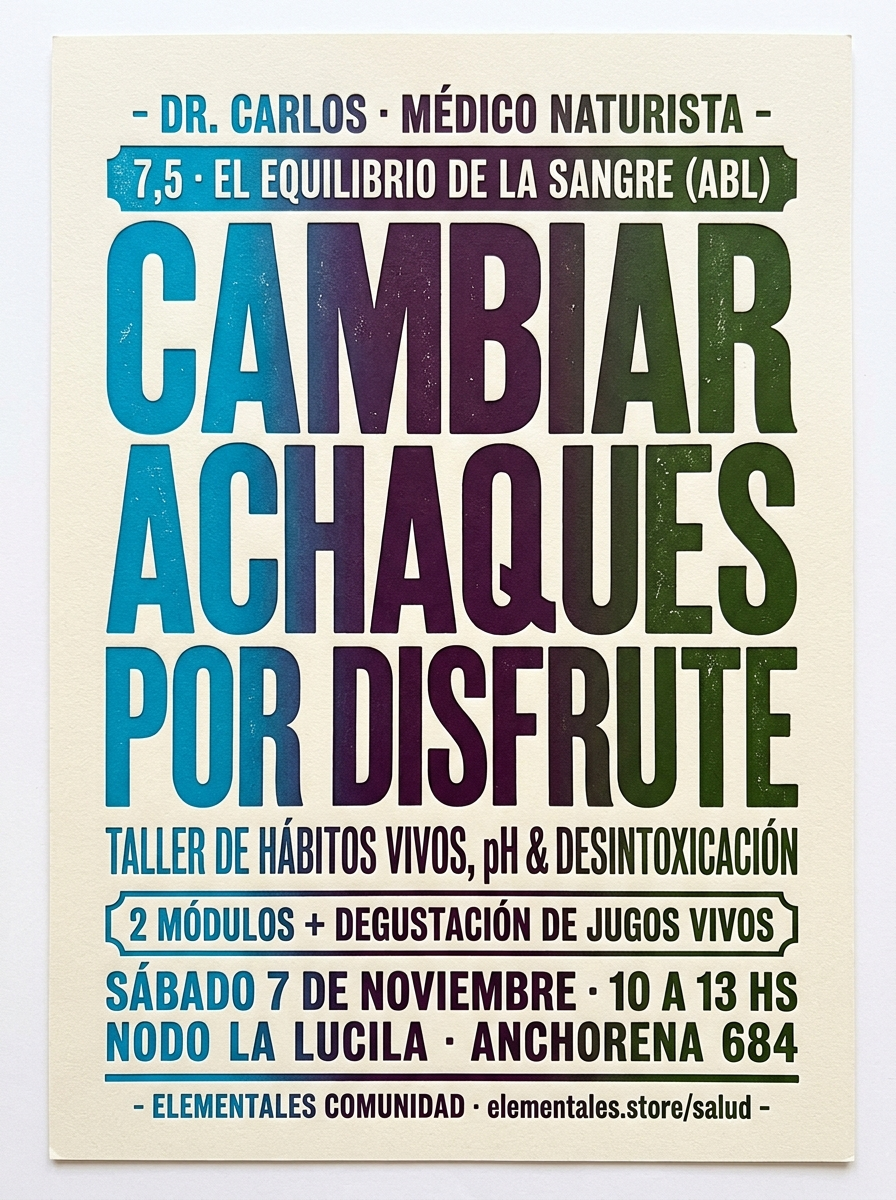
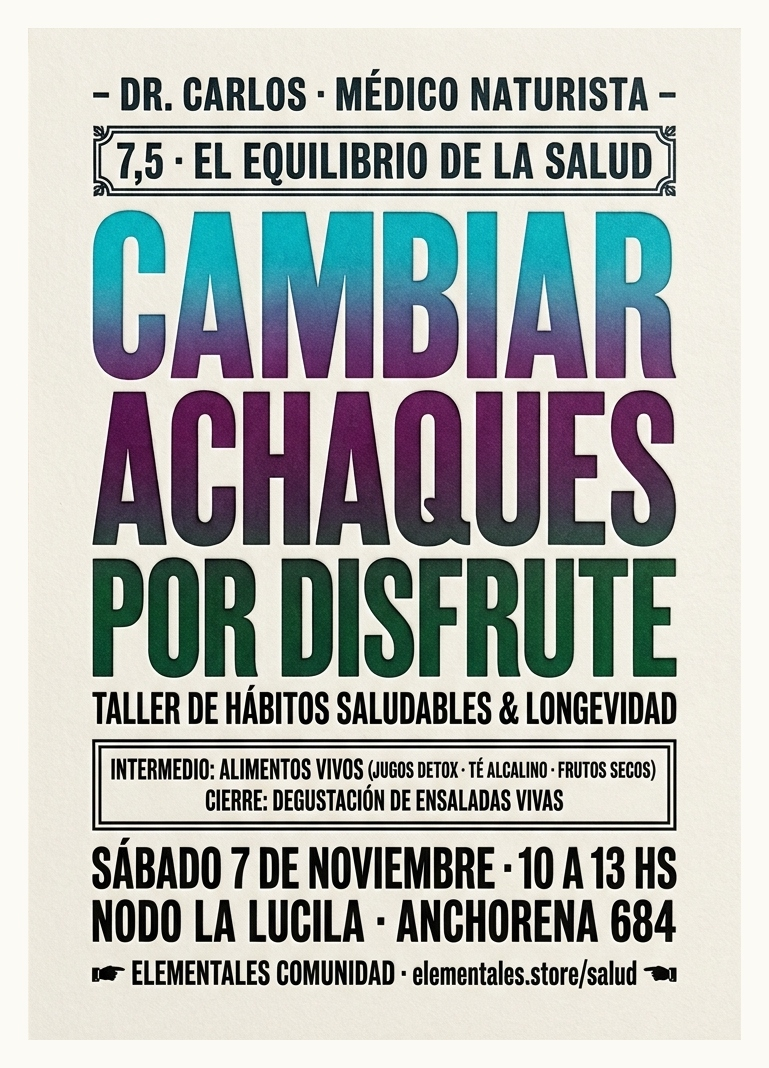
fix(flyer): actualizar flyer tipografico oficial estilo Imprenta Rescate con habitos saludables, sin ABL, desglose de alimentos vivos (jugos detox, te alcalino, frutos secos) y ensaladas al cierre

diff --git a/carlos.html b/carlos.html
@@ -1512,7 +1512,8 @@ https://elementales.store/salud`;
 🌱 *¡SALUD & 7,5! Taller de Hábitos Saludables & Longevidad*
 👨⚕ Encuentro en 2 módulos con alimentos vivos y degustación de ensaladas vivas al cierre.
 
-📍 *Nodos La Lucila y Loma Verde*
+📍 *Nodo Elementales La Lucila (Anchorena 684)*
+🗓 *Sábado 7 de Noviembre · 10:00 a 13:00 hs*
 Mirá el manifiesto y reservá tu lugar acá:
 👉 https://elementales.store/salud`;
         window.open(`https://wa.me/?text=${encodeURIComponent(shareMsg)}`, '_blank');

diff --git a/carlos/index.html b/carlos/index.html
@@ -1512,7 +1512,8 @@ https://elementales.store/salud`;
 🌱 *¡SALUD & 7,5! Taller de Hábitos Saludables & Longevidad*
 👨⚕ Encuentro en 2 módulos con alimentos vivos y degustación de ensaladas vivas al cierre.
 
-📍 *Nodos La Lucila y Loma Verde*
+📍 *Nodo Elementales La Lucila (Anchorena 684)*
+🗓 *Sábado 7 de Noviembre · 10:00 a 13:00 hs*
 Mirá el manifiesto y reservá tu lugar acá:
 👉 https://elementales.store/salud`;
         window.open(`https://wa.me/?text=${encodeURIComponent(shareMsg)}`, '_blank');

diff --git a/salud.html b/salud.html
@@ -1512,7 +1512,8 @@ https://elementales.store/salud`;
 🌱 *¡SALUD & 7,5! Taller de Hábitos Saludables & Longevidad*
 👨⚕ Encuentro en 2 módulos con alimentos vivos y degustación de ensaladas vivas al cierre.
 
-📍 *Nodos La Lucila y Loma Verde*
+📍 *Nodo Elementales La Lucila (Anchorena 684)*
+🗓 *Sábado 7 de Noviembre · 10:00 a 13:00 hs*
 Mirá el manifiesto y reservá tu lugar acá:
 👉 https://elementales.store/salud`;
         window.open(`https://wa.me/?text=${encodeURIComponent(shareMsg)}`, '_blank');

diff --git a/salud/index.html b/salud/index.html
@@ -1512,7 +1512,8 @@ https://elementales.store/salud`;
 🌱 *¡SALUD & 7,5! Taller de Hábitos Saludables & Longevidad*
 👨⚕ Encuentro en 2 módulos con alimentos vivos y degustación de ensaladas vivas al cierre.
 
-📍 *Nodos La Lucila y Loma Verde*
+📍 *Nodo Elementales La Lucila (Anchorena 684)*
+🗓 *Sábado 7 de Noviembre · 10:00 a 13:00 hs*
 Mirá el manifiesto y reservá tu lugar acá:
 👉 https://elementales.store/salud`;
         window.open(`https://wa.me/?text=${encodeURIComponent(shareMsg)}`, '_blank');
